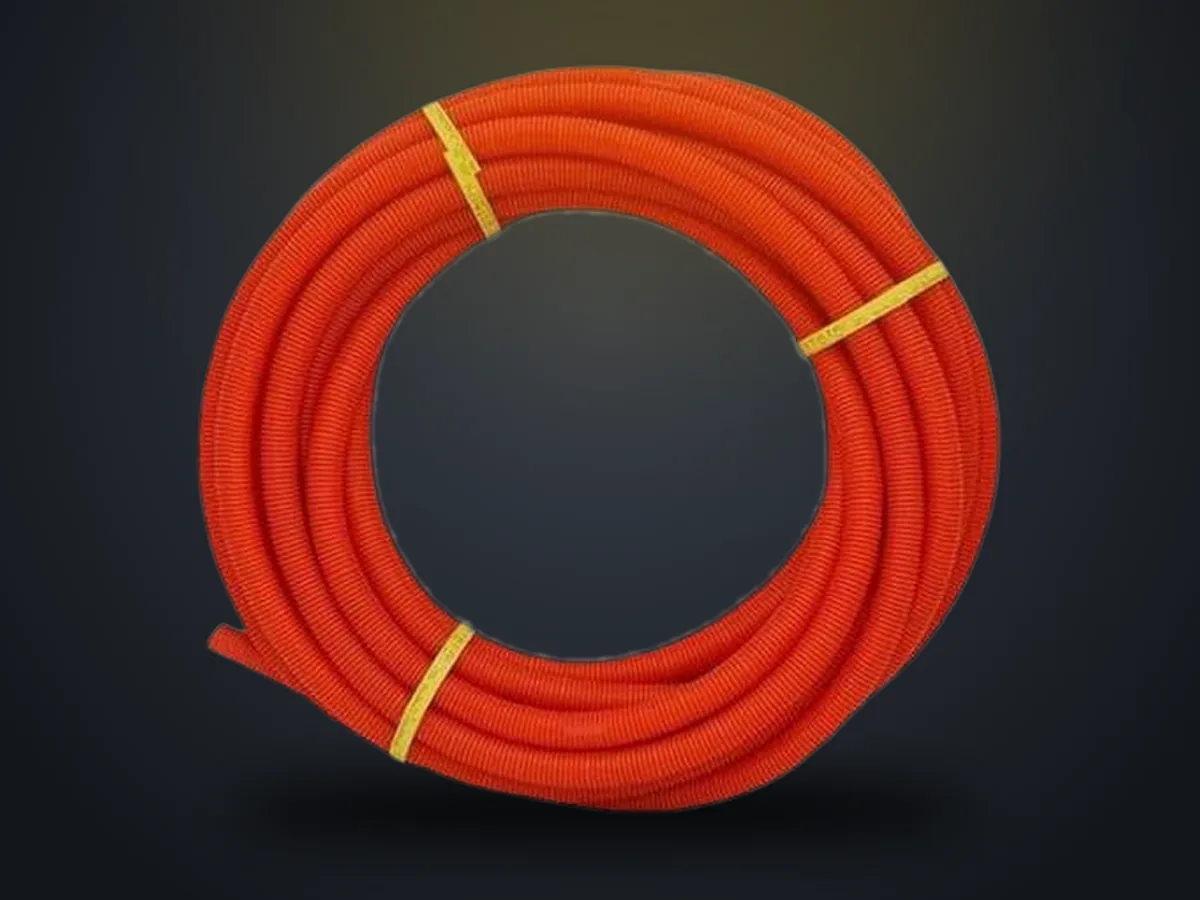
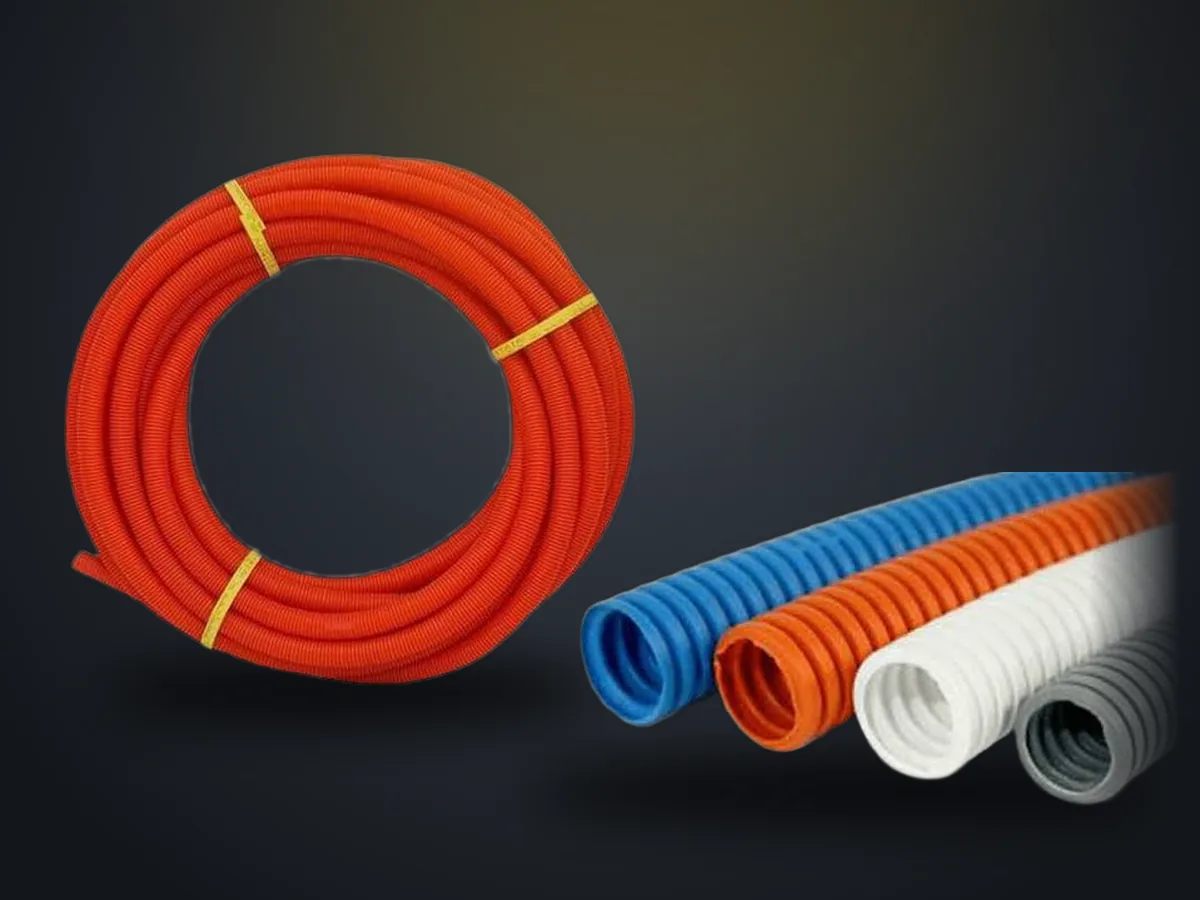
Flex card: red coil + corrugated conduits composite

diff --git a/index.html b/index.html
@@ -540,7 +540,7 @@ nav{font-weight:600}
  <div class="frame">
   <div class="cards">
    <article class="card reveal"><div class="art2"><img src="assets/products/hose.webp" alt="لفة خرطوم كهربائي أملس باللون البرتقالي" loading="lazy" width="800" height="600"></div><div class="cb"><span class="cat">تأسيس</span><h3>خراطيم كهربائية</h3><p>خراطيم ملساء مرنة تحمي الأسلاك وتسهّل تمريرها داخل الحوائط والأسقف.</p><a class="more" href="#contact" data-ask="خراطيم كهربائية">استفسر عن المقاسات والأسعار<svg viewBox="0 0 24 24"><path d="M19 12H5M11 6l-6 6 6 6" fill="none" stroke="currentColor" stroke-width="2" stroke-linecap="round" stroke-linejoin="round"/></svg></a></div></article>
-   <article class="card reveal d1"><div class="art2"><img src="assets/products/flex.webp" alt="لفة سوستة فلكسبل حمراء" loading="lazy" width="800" height="600"></div><div class="cb"><span class="cat">تأسيس</span><h3>سوستة فلكسبل</h3><p>سوستة فلكسبل مرنة لحماية الأسلاك وتمريرها بسهولة.</p><a class="more" href="#contact" data-ask="سوستة فلكسبل">استفسر عن المقاسات والأسعار<svg viewBox="0 0 24 24"><path d="M19 12H5M11 6l-6 6 6 6" fill="none" stroke="currentColor" stroke-width="2" stroke-linecap="round" stroke-linejoin="round"/></svg></a></div></article>
+   <article class="card reveal d1"><div class="art2"><img src="assets/products/flex.webp" alt="سوستة فلكسبل: لفة ووصلات مموّجة" loading="lazy" width="800" height="600"></div><div class="cb"><span class="cat">تأسيس</span><h3>سوستة فلكسبل</h3><p>سوستة فلكسبل مرنة لحماية الأسلاك وتمريرها بسهولة.</p><a class="more" href="#contact" data-ask="سوستة فلكسبل">استفسر عن المقاسات والأسعار<svg viewBox="0 0 24 24"><path d="M19 12H5M11 6l-6 6 6 6" fill="none" stroke="currentColor" stroke-width="2" stroke-linecap="round" stroke-linejoin="round"/></svg></a></div></article>
    <article class="card reveal d1"><div class="art2"><img src="assets/products/pvc.webp" alt="مواسير PVC مستقيمة باللونين الأبيض والرمادي" loading="lazy" width="800" height="600"></div><div class="cb"><span class="cat">تأسيس</span><h3>مواسير PVC</h3><p>مواسير PVC صلبة بأطوال مستقيمة، تُوصَل بالأكواع والجُلَب، بألوان تساعد على التمييز بين خطوط التأسيس.</p><a class="more" href="#contact" data-ask="مواسير PVC">استفسر عن المقاسات والأسعار<svg viewBox="0 0 24 24"><path d="M19 12H5M11 6l-6 6 6 6" fill="none" stroke="currentColor" stroke-width="2" stroke-linecap="round" stroke-linejoin="round"/></svg></a></div></article>
    <article class="card reveal d2"><div class="art2"><img src="assets/products/magic.webp" alt="علبة ماجيك صفراء مستطيلة بمسامير تثبيت معدنية" loading="lazy" width="800" height="600"></div><div class="cb"><span class="cat">تشطيب</span><h3>علب ماجيك</h3><p>علب للمفاتيح والبرايز بمسامير تثبيت معدنية، تُركَّب منفردة أو متجاورة أو فوق بعضها.</p><a class="more" href="#contact" data-ask="علب ماجيك">استفسر عن الأنواع والأسعار<svg viewBox="0 0 24 24"><path d="M19 12H5M11 6l-6 6 6 6" fill="none" stroke="currentColor" stroke-width="2" stroke-linecap="round" stroke-linejoin="round"/></svg></a></div></article>
    <article class="card reveal d3"><div class="art2"><img src="assets/products/cable.webp" alt="كابلات كهربائية متعددة الألوان بموصلات نحاسية" loading="lazy" width="800" height="600"></div><div class="cb"><span class="cat">كابلات</span><h3>الكابلات الكهربائية</h3><p>نوفّر جميع أنواع الكابلات الكهربائية لتلبية احتياجات مشروعك.</p><a class="more" href="#contact" data-ask="الكابلات الكهربائية">استفسر عن الأنواع والأسعار<svg viewBox="0 0 24 24"><path d="M19 12H5M11 6l-6 6 6 6" fill="none" stroke="currentColor" stroke-width="2" stroke-linecap="round" stroke-linejoin="round"/></svg></a></div></article>
